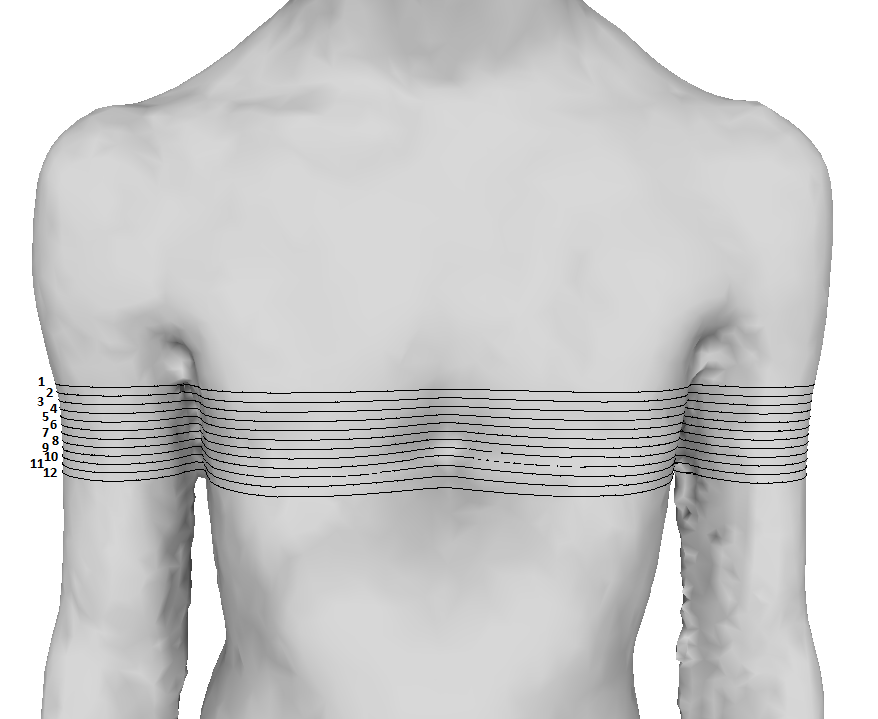
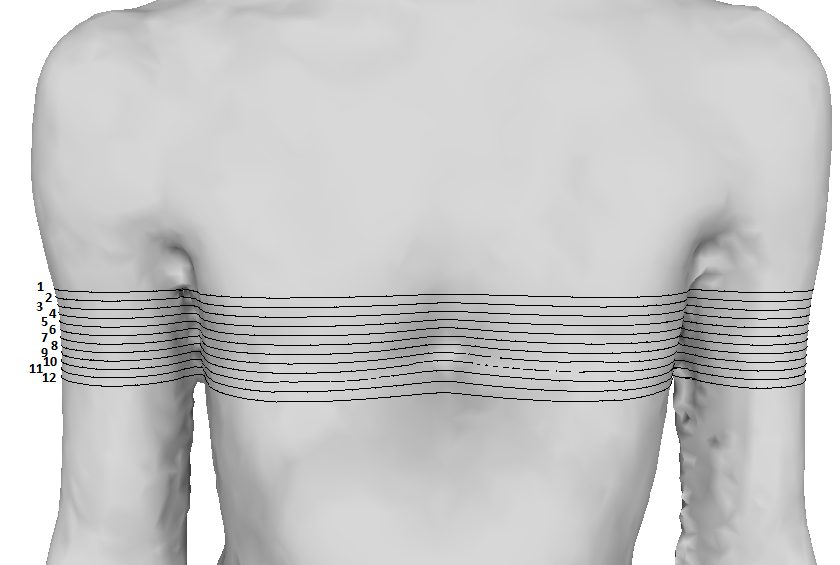
added new ratio lung front to back sternum to vertebre ratio, added mouse point marks

Changed region(s): [[0.031, 0.0, 0.9905, 1.0], [0.031, 0.7522, 0.0929, 1.0]]

diff --git a/areapython/qtArea.py b/areapython/qtArea.py
@@ -62,6 +62,47 @@ class HallerIndex():
 	def vertIsSet(self):
 		return self.vert2 != None
 
+class BackToFrontSternumToVertebreRatio():
+	def __init__(self):
+		self.clearLung()
+		self.clearSternum()
+
+	def calculate(self):
+		if self.vert1 != None and self.vert2 != None and self.vert3 != None and self.vert4 != None:
+			return abs(self.vert1 - self.vert2) / abs(self.vert3 - self.vert4)
+		raise ValueError('Coordinates have not been set before calculation')
+
+	def clearLung(self):
+		self.vert1 = None
+		self.vert2 = None
+
+	def clearSternum(self):
+		self.vert3 = None
+		self.vert4 = None
+
+	def setLung(self, vert):
+		if self.vert1 == None:
+			self.vert1 = float(vert)
+			return
+		if self.vert2 == None:
+			self.vert2 = float(vert)
+			return
+		raise ValueError('Vertical coordinates have already been set')
+
+	def setSternum(self, vert):
+		if self.vert3 == None:
+			self.vert3 = float(vert)
+			return
+		if self.vert4 == None:
+			self.vert4 = float(vert)
+			return
+		raise ValueError('Vertical coordinates have already been set')
+
+	def sternumIsSet(self):
+		return self.vert4 != None
+
+	def lungIsSet(self):
+		return self.vert2 != None
 
 class AreaRatioWindow(QtWidgets.QWidget):
 	
@@ -88,6 +129,9 @@ class AreaRatioWindow(QtWidgets.QWidget):
 
 		#Haller index
 		self.hallerIndex = HallerIndex()
+
+		#lung back to front / sternum to vertebre ratio
+		self.backToFrontSternumToVertebreRatio = BackToFrontSternumToVertebreRatio()
 
 		#current slice
 		self.currentSlice = self.slice7
@@ -119,11 +163,23 @@ class AreaRatioWindow(QtWidgets.QWidget):
 		#bool representing if listener is attached
 		self.listenerAttached = False
 
+		#haller index horizontal count
+		self.hallerHoriCount = 0 
+				
+		#lung vertical count
+		self.lungCount = 0 
+
+		#Sternum to vertebre count
+		self.STVCount = 0 
+				
+		#haller index horizontal count
+		self.hallerVertCount = 0 
+
 		#saved solution text asymmetric ratio 
 		self.asymmetricRatio = ''
 
 		#display app title
-		self.appTitle = QtWidgets.QLabel('Welcome to the 2d application')
+		self.appTitle = QtWidgets.QLabel('Below are the options to set boundaries and calulate area ratios')
 
 		#display text in window
 		self.text = QtWidgets.QLabel('Please select an option')
@@ -182,6 +238,23 @@ class AreaRatioWindow(QtWidgets.QWidget):
 		#set Haller display
 		self.hallerDisplay = QtWidgets.QLabel('Haller index')
 
+		#set Haller label
+		self.hallerLabel = QtWidgets.QLabel('Haller index Buttons')
+
+		#set lung back to front vertical selector
+		self.lungBackToFront = QtWidgets.QPushButton('Set vertical lung back to front')
+		self.lungBackToFront.clicked.connect(self.attachHallerLungListener)
+
+		#set sternum to vertebre vertical selector
+		self.sternumToVertebre = QtWidgets.QPushButton('Set vertical sternum to vertebre')
+		self.sternumToVertebre.clicked.connect(self.attachHallerSTVListener)
+
+		#set lung / sternum to vertebre ratio
+		self.lungSternumToVertebreDisplay = QtWidgets.QLabel('Lung back to front / Sternum to vertebre ratio')
+
+		#set lung / sternum to vertebre ratio
+		self.lungSternumToVertebreLabel = QtWidgets.QLabel('Lung back to front / Sternum to vertebre ratio Buttons')
+
 		#right panel picture
 		self.rightPanelPicture = QtWidgets.QLabel()
 		self.rightPanelPicture.setPixmap(QtGui.QPixmap('body202cropped.png'))
@@ -194,16 +267,22 @@ class AreaRatioWindow(QtWidgets.QWidget):
 		h_box_buttons.addWidget(self.leftButton)
 		h_box_buttons.addWidget(self.centerButton)
 		h_box_buttons.addWidget(self.rightButton)
-		h_box_buttons.addWidget(self.areaRatioButton)
-		h_box_buttons.addWidget(self.asymmetryRatioButton)
 
 		h_box_switch_boundary_line = QtWidgets.QHBoxLayout()
 		h_box_switch_boundary_line.addWidget(self.defaultImage)
 		h_box_switch_boundary_line.addWidget(self.boundary_lines)
 
+		h_box_ratios = QtWidgets.QHBoxLayout()
+		h_box_ratios.addWidget(self.areaRatioButton)
+		h_box_ratios.addWidget(self.asymmetryRatioButton)
+
 		h_box_haller_buttons = QtWidgets.QHBoxLayout()
 		h_box_haller_buttons.addWidget(self.hallerHorz)
 		h_box_haller_buttons.addWidget(self.hallerVert)
+
+		h_box_lungSToV_buttons = QtWidgets.QHBoxLayout()
+		h_box_lungSToV_buttons.addWidget(self.lungBackToFront)
+		h_box_lungSToV_buttons.addWidget(self.sternumToVertebre)
 
 		h_box_status = QtWidgets.QHBoxLayout()
 		h_box_status.addWidget(self.text)
@@ -211,21 +290,36 @@ class AreaRatioWindow(QtWidgets.QWidget):
 		h_box_curr_slice = QtWidgets.QHBoxLayout()
 		h_box_curr_slice.addWidget(self.sliceText)
 
+		h_box_haller_label = QtWidgets.QHBoxLayout()
+		h_box_haller_label.addWidget(self.hallerLabel)
+
 		h_box_haller_status = QtWidgets.QHBoxLayout()
 		h_box_haller_status.addWidget(self.hallerDisplay)
+
+		h_box_lungSToV_status = QtWidgets.QHBoxLayout()
+		h_box_lungSToV_status.addWidget(self.lungSternumToVertebreDisplay)
+
+		h_box_lungSToV_label = QtWidgets.QHBoxLayout()
+		h_box_lungSToV_label.addWidget(self.lungSternumToVertebreLabel)
 		
 		h_box_picture = QtWidgets.QHBoxLayout()
 		h_box_picture.addWidget(self.picture)
 		h_box_picture.addWidget(self.slider)
+		h_box_picture.setAlignment(self.picture, Qt.AlignTop)
 		
 		vertical_box = QtWidgets.QVBoxLayout()
 		vertical_box.addLayout(h_box_instruct)
 		vertical_box.addLayout(h_box_buttons)
-		vertical_box.addLayout(h_box_haller_buttons)
 		vertical_box.addLayout(h_box_switch_boundary_line)
+		vertical_box.addLayout(h_box_ratios)
+		vertical_box.addLayout(h_box_haller_label)
+		vertical_box.addLayout(h_box_haller_buttons)
+		vertical_box.addLayout(h_box_lungSToV_label)
+		vertical_box.addLayout(h_box_lungSToV_buttons)
 		vertical_box.addLayout(h_box_status)
 		vertical_box.addLayout(h_box_curr_slice)
-		vertical_box.addLayout(h_box_haller_status)
+		vertical_box.addLayout(h_box_haller_status)		
+		vertical_box.addLayout(h_box_lungSToV_status)
 		vertical_box.addLayout(h_box_picture)
 
 		right_vertical_box = QtWidgets.QVBoxLayout()
@@ -246,16 +340,24 @@ class AreaRatioWindow(QtWidgets.QWidget):
 		self.hallerIndex.clearVert()
 		self.picture.attach(self.hallerVertHandler)
 
-	def hallerHorzHandler(self, event):
-		if not self.hallerIndex.horzIsSet():
-			self.hallerIndex.setHorz(event.x())
+	def attachHallerLungListener(self):
+		self.backToFrontSternumToVertebreRatio.clearLung()
+		self.picture.attach(self.lungHandler)
+	def attachHallerSTVListener(self):
+		self.backToFrontSternumToVertebreRatio.clearSternum()
+		self.picture.attach(self.sternumHandler)
 
-			coordY = event.x() 
-			coordX = event.y() - 105
-			image = misc.imread(self.displayPictureFile)
+	def generateMouseMark(self, event, picture, saveFile):
+			image = misc.imread(picture)
+
 			X = image.shape[0]
 			Y = image.shape[1]
-			print "x: " + str(event.x()) + " y: " + str(event.y()), " X: " + str(X) + " Y: " + str(Y)
+
+			coordY = event.x() 
+			coordX = event.y() 
+
+			print "x: " + str(event.x()) + " y: " + str(event.y()) 
+
 			image[coordX][coordY][0] = 220
 			image[coordX][coordY][1] = 20
 			image[coordX][coordY][2] = 60
@@ -276,17 +378,87 @@ class AreaRatioWindow(QtWidgets.QWidget):
 					image[coordX-i][coordY][0] = 220
 					image[coordX-i][coordY][1] = 20
 					image[coordX-i][coordY][2] = 60
-			misc.imsave('temp.png', image)
-			self.picture.setPixmap(QtGui.QPixmap('temp.png'))
+			misc.imsave(saveFile, image)
+			self.picture.setPixmap(QtGui.QPixmap(saveFile))
+
+	def lungHandler(self, event):
+		if(self.hallerHoriCount > 0 or self.hallerVertCount > 0):
+			self.switchDefaultImage(self.currentSlice)
+		self.lungCount += 1
+		if(self.lungCount > 3):
+			self.lungCount = 1
+		if not self.backToFrontSternumToVertebreRatio.lungIsSet():
+			self.backToFrontSternumToVertebreRatio.setLung(event.y())
+			if(self.lungCount == 1 and self.STVCount != 3):
+				self.generateMouseMark(event, self.displayPictureFile, 'tempLungSTVRatio.png')
+			else:
+				self.generateMouseMark(event, 'tempLungSTVRatio.png', 'tempLungSTVRatio.png')
+				self.lungCount += 1
+		if self.backToFrontSternumToVertebreRatio.lungIsSet():
+			self.picture.detach()
+			self.STVCount = 0
+		self.displayLungSTVRatio()
+
+	def sternumHandler(self, event):
+		if(self.hallerHoriCount > 0 or self.hallerVertCount > 0):
+			self.switchDefaultImage(self.currentSlice)
+		self.STVCount += 1
+		if(self.STVCount > 3):
+			self.STVCount = 1
+		if not self.backToFrontSternumToVertebreRatio.sternumIsSet():
+			self.backToFrontSternumToVertebreRatio.setSternum(event.y())
+			if(self.STVCount == 1 and self.lungCount != 3):
+				self.generateMouseMark(event, self.displayPictureFile, 'tempLungSTVRatio.png')
+			else:
+				self.generateMouseMark(event, 'tempLungSTVRatio.png', 'tempLungSTVRatio.png')
+				self.STVCount += 1
+		if self.backToFrontSternumToVertebreRatio.sternumIsSet():
+			self.picture.detach()
+			self.lungCount = 0
+		self.displayLungSTVRatio()
+
+	def displayLungSTVRatio(self):
+		try:
+			index = self.backToFrontSternumToVertebreRatio.calculate()
+			self.lungSternumToVertebreDisplay.setText('lung back to front / sternum to vertebre ratio: ' 
+				+ str(index))
+		except ValueError as e:
+			self.lungSternumToVertebreDisplay.setText('lung back to front / sternum to vertebre ratio: ')
+
+	def hallerHorzHandler(self, event):
+		if(self.lungCount > 0 or self.STVCount > 0):
+			self.switchDefaultImage(self.currentSlice)
+		self.hallerHoriCount += 1
+		if(self.hallerHoriCount > 3):
+			self.hallerHoriCount = 1
+		if not self.hallerIndex.horzIsSet():
+			self.hallerIndex.setHorz(event.x())
+			if(self.hallerHoriCount == 1 and self.hallerVertCount != 3):
+				self.generateMouseMark(event, self.displayPictureFile, 'tempHaller.png')
+			else:
+				self.generateMouseMark(event, 'tempHaller.png', 'tempHaller.png')
+				self.hallerHoriCount += 1
 		if self.hallerIndex.horzIsSet():
 			self.picture.detach()
+			self.hallerVertCount = 0
 		self.displayHallerIndex()
 
 	def hallerVertHandler(self, event):
+		if(self.lungCount > 0 or self.STVCount > 0):
+			self.switchDefaultImage(self.currentSlice)
+		self.hallerVertCount += 1
+		if(self.hallerVertCount > 3):
+			self.hallerVertCount = 1
 		if not self.hallerIndex.vertIsSet():
 			self.hallerIndex.setVert(event.y())
+			if(self.hallerVertCount == 1 and self.hallerHoriCount != 3):
+				self.generateMouseMark(event, self.displayPictureFile, 'tempHaller.png')
+			else:
+				self.generateMouseMark(event, 'tempHaller.png', 'tempHaller.png')
+				self.hallerVertCount += 1
 		if self.hallerIndex.vertIsSet():
 			self.picture.detach()
+			self.hallerHoriCount = 0
 		self.displayHallerIndex()
 
 	def displayHallerIndex(self):
@@ -304,6 +476,9 @@ class AreaRatioWindow(QtWidgets.QWidget):
 		self.sliceChanged = True
 		self.ran_asymmetry_ratio = False
 		self.ran_defect_chest_ratio = False
+
+		self.hallerHoriCount = 0
+		self.hallerVertCount = 0
 
 		if sliceNumber == 12:
 			self.sliceText.setText('You are currently on slice 1')
@@ -397,6 +572,11 @@ class AreaRatioWindow(QtWidgets.QWidget):
 
 
 	def switchDefaultImage(self, sliceNumber):
+		self.hallerHoriCount = 0 
+		self.lungCount = 0 
+		self.STVCount = 0 
+		self.hallerVertCount = 0 
+
 		self.currentSlice = sliceNumber
 		self.displayPictureFile = sliceNumber
 		self.boundaryLineOn = False
